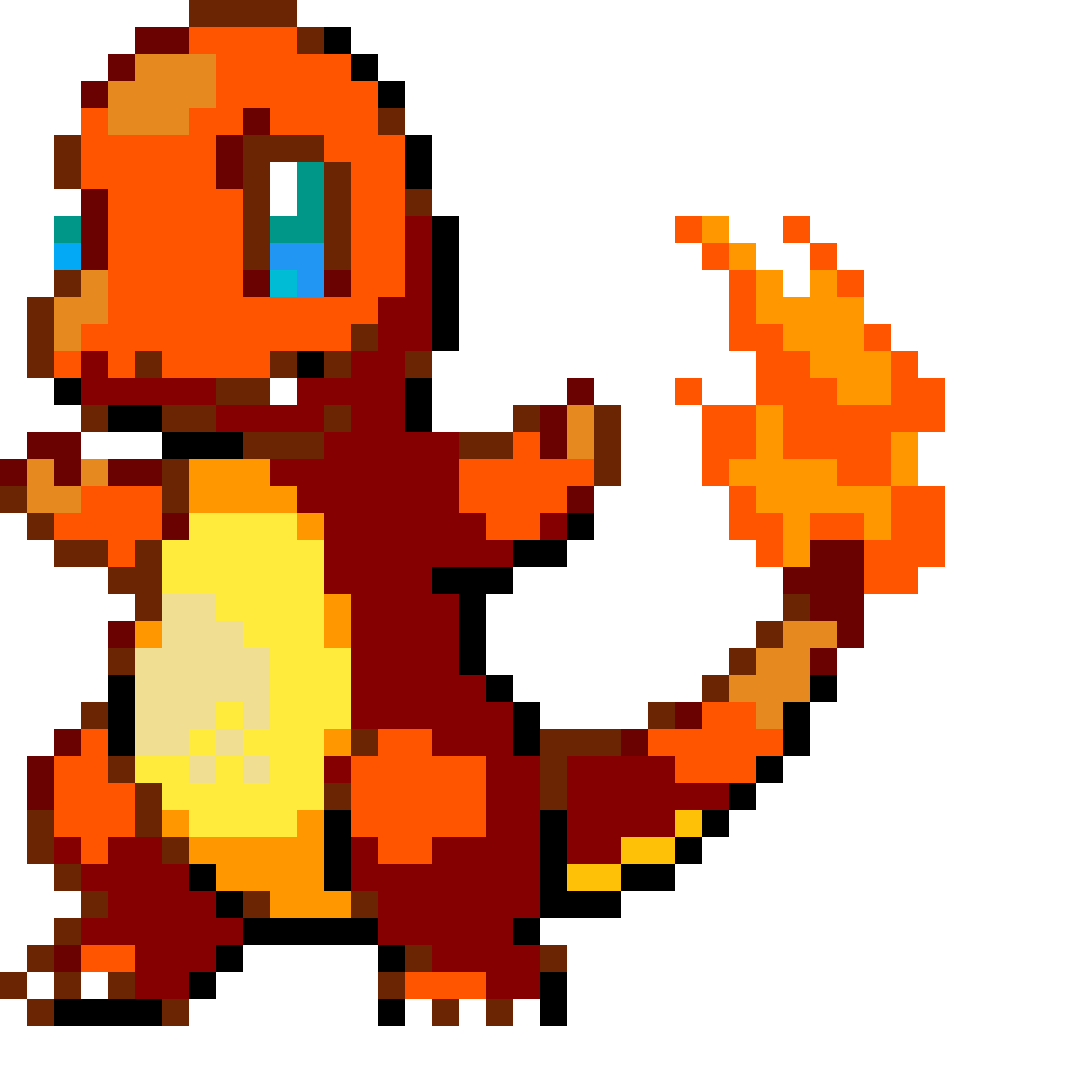
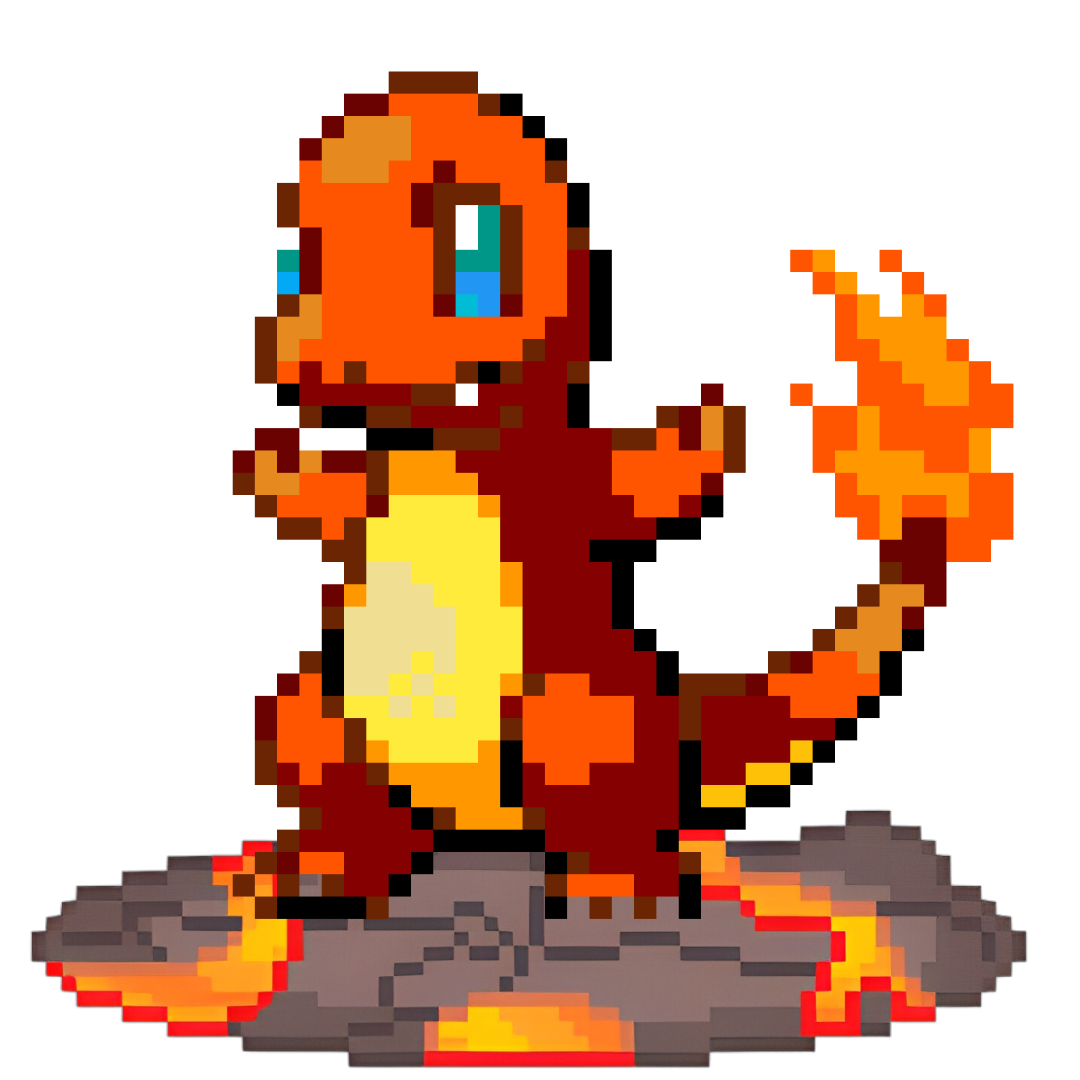
Mokepon images added

diff --git a/index.html b/index.html
@@ -20,49 +20,103 @@
         <img class="select-pet__select" src="./img/select-pet.png" alt="select a mokepon">
 
         <div class="cards">
-            <label class="cards__mokepon-card burntrack" for="burntrack">
-                <p>Burntrack</p>
-                <img class="cards__mokepon-card_image" src="./img/burntrack.png" alt="">
-            </label>
-            <input type="radio" name="pets" id="burntrack" value="Burntrack 🔥" checked>
+            <div class="cards__common">
+                <input type="radio" name="pets" id="burntrack" value="Burntrack" checked>
+                <label class="cards__mokepon-card burntrack" for="burntrack">
+                    <div class="cards__mokepon-card_info">
+                        <p>Burntrack</p>
+                        <div class="cards__mokepon-card_element">
+                            <img src="./img/fire.png" alt="">
+                            <p class="cards__mokepon-card_element-description">Fire</p>
+                        </div>
+                    </div>
+                    <img class="cards__mokepon-card_image" src="./img/burntrack.png" alt="">
+                </label>
 
-            <label class="cards__mokepon-card glitch" for="glitch">
-                <p>Glitch</p>
-                <img class="cards__mokepon-card_image" src="./img/glitch.png" alt="">
-            </label>
-            <input type="radio" name="pets" id="glitch" value="Glitch ⚡">
+                <input type="radio" name="pets" id="glitch" value="Glitch">
+                <label class="cards__mokepon-card glitch" for="glitch">
+                    <div class="cards__mokepon-card_info">
+                        <p>Glitch</p>
+                        <div class="cards__mokepon-card_element">
+                            <img src="./img/ray.png" alt="">
+                            <p class="cards__mokepon-card_element-description">Electric</p>
+                        </div>
+                    </div>
+                    <img class="cards__mokepon-card_image" src="./img/glitch.png" alt="">
+                </label>
 
-            <label class="cards__mokepon-card mortus" for="mortus">
-                <p>Mortus</p>
-                <img class="cards__mokepon-card_image" src="./img/mortus.png" alt="">
-            </label>
-            <input type="radio" name="pets" id="mortus" value="Mortus 🖤">
+                <input type="radio" name="pets" id="mortus" value="Mortus">
+                <label class="cards__mokepon-card mortus" for="mortus">
+                    <div class="cards__mokepon-card_info">
+                        <p>Mortus</p>
+                        <div class="cards__mokepon-card_element">
+                            <img src="./img/dark.png" alt="">
+                            <p class="cards__mokepon-card_element-description">Dark</p>
+                        </div>
+                    </div>
+                    <img class="cards__mokepon-card_image" src="./img/mortus.png" alt="">
+                </label>
+            </div>
+            <div class="cards__hybrid">
+                <input type="radio" name="pets" id="inferstorm" value="Inferstorm">
+                <label class="cards__mokepon-card inferstorm" for="inferstorm">
+                    <div class="cards__mokepon-card_info">
+                        <p>Inferstorm</p>
+                        <div class="cards__mokepon-card_element">
+                            <img src="./img/fire.png" alt="">
+                            <img src="./img/ray.png" alt="">
+                            <p class="cards__mokepon-card_element-description">Hybrid</p>
+                        </div>
+                    </div>
+                    <img class="cards__mokepon-card_image" src="./img/inferstorm.png" alt="">
+                </label>
 
-            <label class="cards__mokepon-card inferstorm" for="inferstorm">
-                <p>Inferstorm</p>
-                <img class="cards__mokepon-card_image" src="./img/inferstorm.png" alt="">
-            </label>
-            <input type="radio" name="pets" id="inferstorm" value="Inferstorm 🔥⚡">
+                <input type="radio" name="pets" id="blazen" value="Blazen">
+                <label class="cards__mokepon-card blazen" for="blazen">
+                    <div class="cards__mokepon-card_info">
+                        <p>Blazen</p>
+                        <div class="cards__mokepon-card_element">
+                            <img src="./img/fire.png" alt="">
+                            <img src="./img/dark.png" alt="">
+                            <p class="cards__mokepon-card_element-description">Hybrid</p>
+                        </div>
+                    </div>
+                    <img class="cards__mokepon-card_image" src="./img/blazen.png" alt="">
+                </label>
 
-            <label class="cards__mokepon-card blazen" for="blazen">
-                <p>Blazen</p>
-                <img class="cards__mokepon-card_image" src="./img/blazen.png" alt="">
-            </label>
-            <input type="radio" name="pets" id="blazen" value="Blazen 🔥🖤">
-
-            <label class="cards__mokepon-card thunderneg" for="thunderneg">
-                <p>Thunderneg</p>
-                <img class="cards__mokepon-card_image" src="./img/thunderneg.png" alt="">
-            </label>
-            <input type="radio" name="pets" id="thunderneg" value="Thunderneg ⚡🖤">
+                <input type="radio" name="pets" id="thunderneg" value="Thunderneg">
+                <label class="cards__mokepon-card thunderneg" for="thunderneg">
+                    <div class="cards__mokepon-card_info">
+                        <p>Thunderneg</p>
+                        <div class="cards__mokepon-card_element">
+                            <img src="./img/ray.png" alt="">
+                            <img src="./img/dark.png" alt="">
+                            <p class="cards__mokepon-card_element-description">Hybrid</p>
+                        </div>
+                    </div>
+                    <img class="cards__mokepon-card_image" src="./img/thunderneg.png" alt="">
+                </label>
+            </div>
         </div>
+        <button class="select-pet__fight" id="select-pet__fight">
+            <img src="../mokepon/img/pokeball.png" alt="">
+            <div class="select-pet__fight__slogan">
+                <span>I</span>
+                <span>choose</span>
+                <span>You!</span>
+            </div>
+        </button>
 
-        <button class="select-pet__select" id="select-pet__select">Let's fight</button>
     </section>
     <section class="select-attack" id="select-attack">
-        <h1 class="title">Mokepon 🔥🖤</h1>
         <p><span id="select-attack__my-pet"></span> has <span id="select-attack__my-pet-hearts"></span></p>
         <p><span id="select-attack__enemy-pet"></span> has <span id="select-attack__enemy-pet-hearts"></span></p>
+
+        <div class="select-attack__images">
+            <img id="select-attack__images_player-pet" alt="">
+            <img id="select-attack__images_enemy-pet" alt="">
+        </div>
+
         <h2>Select an attack</h2>
         <p>
             <button class="select-attack__fire" id="select-attack__fire"></button>

diff --git a/style.css b/style.css
@@ -65,12 +65,17 @@ body {
     align-items: center;
 }
 
-.cards {
-    display: flex;
-    flex-direction: column;
+.select-pet__select {
+    width: 500px;
 }
 
-.cards input{
+.cards {
+    display: flex;
+    flex-direction: row;
+    gap: 30px;
+}
+
+.cards input {
     visibility: hidden;
 }
 
@@ -92,16 +97,21 @@ body {
 }
 
 .cards__mokepon-card img {
+    margin-top: 40px;
     width: 110px;
     height: 100px;
-    margin-top: 40px;
 }
 
 .cards__mokepon-card:hover {
+    background-color: rgb(254, 254, 192);
     cursor: pointer;
 }
 
-.cards__mokepon-card:hover{
+.cards__mokepon-card:active {
+    background-color: rgb(255, 255, 71);
+}
+
+input[type="radio"]:checked+.cards__mokepon-card {
     background-color: rgb(254, 254, 192);
 }
 
@@ -147,8 +157,129 @@ body {
     color: transparent;
 }
 
-.select-pet__select {
-    width: 500px;
-    padding: 20px;
-    margin: 30px 0px 50px 0px;
+.cards__mokepon-card_info {
+    display: flex;
+    flex-direction: column;
+    height: 100%;
 }
+
+.cards__mokepon-card_element {
+    display: flex;
+    flex-direction: row;
+    align-items: flex-end;
+    height: 50%;
+    gap: 10px;
+    margin-bottom: 20px;
+}
+
+.cards__mokepon-card_info>.cards__mokepon-card_element>.cards__mokepon-card_element-description {
+    font-size: 16px;
+    color: black;
+}
+
+.cards__mokepon-card_info img {
+    width: 15px;
+    height: 17px;
+    margin-bottom: 2.2px;
+}
+
+.cards__mokepon-card_element {
+    display: flex;
+    flex-direction: row;
+}
+
+.select-pet__fight {
+    border-radius: 10px;
+    padding: 10px 120px;
+    margin: 40px 0px;
+    border: none;
+    font-family: "raleway";
+    color: black;
+    font-size: 20px;
+    display: flex;
+    align-items: center;
+    justify-content: space-around;
+    width: 10px;
+    height: 5vh;
+    box-shadow: 2px 2px 10px rgb(255, 163, 163);
+    overflow: hidden;
+    position: relative;
+}
+
+.select-pet__fight__slogan{
+    display: flex;
+    align-items: center;
+    justify-content: center;
+    gap: 5px;
+}
+
+.select-pet__fight:hover{
+    cursor: pointer;
+}
+
+.select-pet__fight img{
+    width: 35px;
+    position: absolute;
+}
+
+.select-pet__fight span{
+    position: relative;
+    top: -41.5px;
+    font-size: 15px;
+}
+
+.select-pet__fight:hover span{
+    animation-name: up;
+    animation-duration: 1s;
+    animation-fill-mode: forwards;
+}
+
+.select-pet__fight:hover > img{
+    animation-name: down;
+    animation-duration: 1s;
+    animation-fill-mode: forwards;
+}
+
+.select-attack{
+    display: flex;
+    flex-direction: column;
+    align-items: center;
+    margin: 0px 300px;
+}
+
+.select-attack__images{
+    display: flex;
+    flex-direction: row;
+    align-items: center;
+    justify-content: center;
+    gap:250px;
+}
+
+.select-attack__images img{
+    width: 350px;
+}
+
+.select-attack__images img:first-child{
+    transform: scaleX(-1);
+}
+
+@keyframes up{
+    0% {
+        top: -41.5px;
+    }
+    100% {
+        top: 0px;
+        opacity: 1;
+    }
+}
+
+@keyframes down{
+    0% {
+        top: 0px;
+    }
+    100% {
+        top: 45px;
+        opacity: 0;
+    }
+}
+

diff --git a/js/script.js b/js/script.js
@@ -1,5 +1,5 @@
 //It starts the game after DOM is generated correctly
-const petButton = document.getElementById('select-pet__select');
+const petButton = document.getElementById('select-pet__fight');
 petButton.addEventListener('click', selectPlayerPet);
 
 //Setting HTML sections
@@ -13,9 +13,12 @@ messagesSection.style.display = 'none';
 const resetSection = document.getElementById('reset');
 resetSection.style.display = 'none';
 
-//Setting pets name
+//Setting pets names
 const petName = document.getElementById('select-attack__my-pet');
 const enemyPetName = document.getElementById('select-attack__enemy-pet');
+
+//Setting a constant to get the value of the pets
+const petNames = document.querySelectorAll('input[type="radio"]');
 
 //Setting pets buttons to choose
 const firePet = document.getElementById('burntrack')
@@ -38,6 +41,16 @@ let enemyProtectionMovement;
 //Setting start button
 const startButton = document.getElementById('start__button')
 startButton.addEventListener('click', start)
+
+//Setting variables to get mokepons image
+let playerPetImage;
+let enemyPetImage;
+
+//Setting variables to get mokepons image
+const imgPlayerPet = document.getElementById('select-attack__images_player-pet');
+const imgPlayerPlatform = document.getElementById('select-attack__images_player-platform');
+const imgEnemyPet = document.getElementById('select-attack__images_enemy-pet');
+const imgEnemyPlatform = 'select-attack__images_enemy-platform';
 
 //Setting movements buttons
 const attackMovementButton = document.getElementById('select-attack__fire')
@@ -74,7 +87,7 @@ const enemyPetLife = document.getElementById('select-attack__enemy-pet-hearts')
 let petProtection = false;
 let enemyPetProtection = false;
 
-function start(){
+function start() {
     startSection.style.display = 'none'
     petsSection.style.display = 'flex';
 }
@@ -178,6 +191,12 @@ function getRandomEnemyPet() {
             setName(petEnemy, 2);
             break;
     }
+    getImages();
+}
+
+function getImages() {
+    imgPlayerPet.setAttribute('src', './img/' + petName.innerHTML.toLowerCase() + '.png')
+    imgEnemyPet.setAttribute('src', './img/' + enemyPetName.innerHTML.toLowerCase() + '.png')
 }
 
 //We set the value of movements, n is to know if It's player or computer
